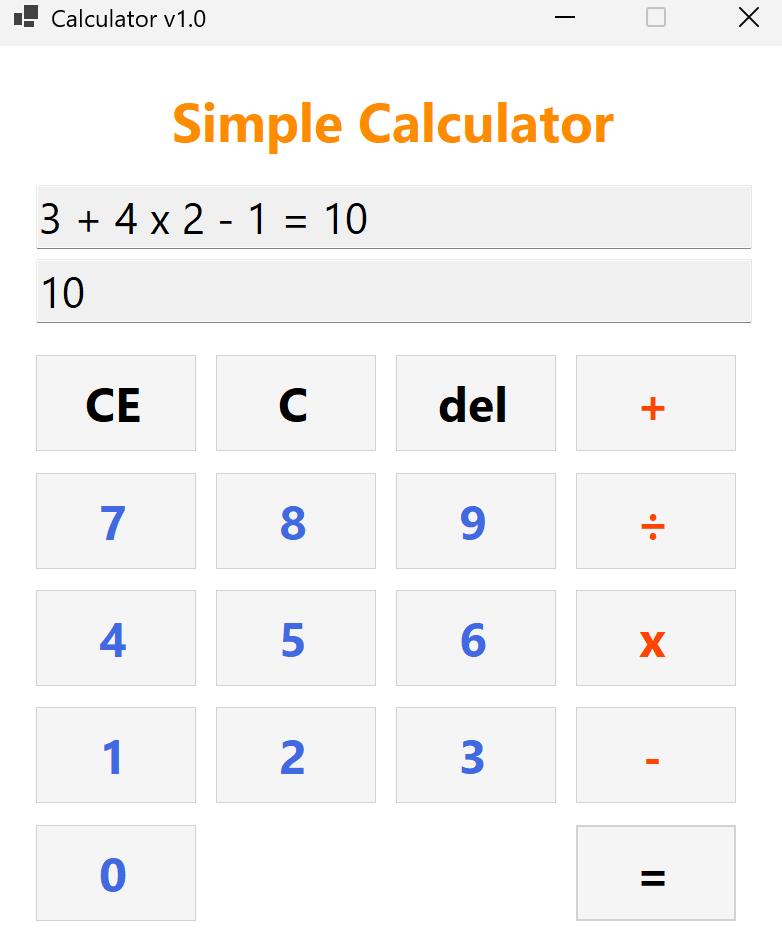
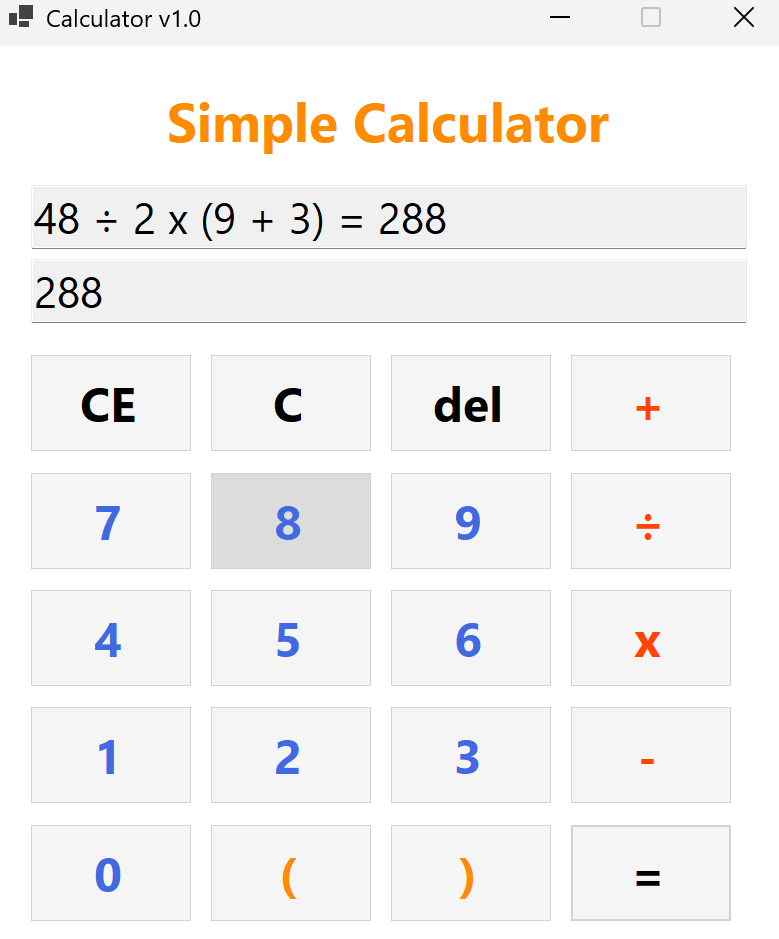
readme 및 스크린샷 수정

diff --git a/README.md b/README.md
@@ -12,8 +12,8 @@
     - int.TryParse()를 이용하여 문자열에서 정수로의 형 변환을 안전하게 처리한다.
     - ToString()을 이용하여 계산 결과값을 문자열로 변환하고 화면에 출력한다.
     - KeyPress 및 KeyDown 이벤트를 이용하여 키보드 숫자 키, 연산자 키, Enter, Backspace, Delete 키 입력을 처리한다.
-    - List<int>와 List<string>으로 피연산자와 연산자를 각각 저장하여 수식 전체를 관리한다.
-    - Evaluate() 메서드에서 곱하기·나누기를 먼저 처리한 뒤 더하기·빼기를 처리하는 2단계 연산자 우선순위 계산을 구현한다.
+    - List<string> tokens 하나로 숫자·연산자·괄호를 모두 저장하여 수식 전체를 관리한다.
+    - EvaluateTokens() 메서드에서 Shunting-yard 알고리즘으로 괄호와 연산자 우선순위를 모두 반영하여 계산한다.
     - 0으로 나누기 시 DivideByZeroException을 이용하여 예외처리를 수행하고 오류 메시지를 표시한다.
     - 선행 0 입력 방지 로직을 구현하여 "007"과 같은 비정상적인 숫자 입력을 차단한다.
     - isResult 플래그 변수를 이용하여 계산 결과 상태를 관리한다.
@@ -44,12 +44,12 @@
 - 과제 내용
     - 과제1의 더하기 기능에 더해 빼기(-), 곱하기(x), 나누기(÷) 버튼을 추가하여 사칙연산을 완성한다.
     - 각 연산자 버튼은 하나의 공통 이벤트 핸들러(BtnOperator_Click)에 연결한다.
-    - 클릭된 버튼의 텍스트를 currentOperator 변수에 저장하여 연산자 종류를 구분한다.
+    - 클릭된 버튼의 텍스트를 tokens 리스트에 추가하여 연산자 종류를 저장한다.
     - 나누기 연산의 경우 두 번째 피연산자가 0인지 반드시 검사하여 예외처리를 수행한다.
 - 구현 내용과 기능 설명
-    - 연산자 버튼 클릭 시 currentOperator에 연산자를 저장하고 firstNumber를 기록한다.
-    - 연산자 입력 직후 txtResult에는 firstNumber 값이 표시되어 사용자가 첫 번째 피연산자를 확인할 수 있다.
-    - 등호(=) 버튼 클릭 시 switch 문으로 currentOperator를 분기하여 해당 사칙연산을 수행한다.
+    - 연산자 버튼 클릭 시 현재까지 입력된 숫자를 tokens에 추가하고 연산자도 tokens에 저장한다.
+    - 연산자 입력 직후 txtResult에는 마지막으로 확정된 숫자가 표시되어 사용자가 첫 번째 피연산자를 확인할 수 있다.
+    - 등호(=) 버튼 클릭 시 EvaluateTokens()가 호출되어 사칙연산을 수행한다.
     - 결과값은 ToString()으로 변환되어 txtResult에 표시되며, txtExpression에는 "5 x 2 = 10" 형태의 전체 식이 표시된다.
     - 나누기 연산에서 두 번째 수가 0이면 오류 메시지를 출력하고 모든 상태를 초기화한다.
 
@@ -70,11 +70,11 @@
     - Del 버튼은 마지막으로 입력된 숫자 한 글자만 삭제한다.
     - 각 버튼은 키보드의 Delete, Backspace 키와도 연결되어 키보드만으로도 조작이 가능하다.
 - 구현 내용과 기능 설명
-    - C 버튼 클릭 시 txtExpression과 txtResult를 비우고, firstNumber, currentOperator, isNewInput, isResult 등 모든 상태 변수를 초기값으로 리셋한다.
-    - CE 버튼 클릭 시 연산자가 입력되지 않은 상태이면 전체 식을 지운다.
-    - 연산자가 입력된 상태에서 CE를 누르면 두 번째 피연산자만 삭제하여 "firstNumber 연산자" 형태로 되돌리며, txtResult에도 firstNumber가 다시 표시된다.
-    - Del 버튼은 Substring()을 이용해 txtExpression의 마지막 글자 하나를 제거한다.
-    - Del 버튼 동작 후 UpdateCurrentNumberDisplay()를 호출하여 txtResult도 함께 갱신한다.
+    - C 버튼 클릭 시 txtExpression과 txtResult를 비우고, tokens, currentInput, parenDepth, isResult 등 모든 상태 변수를 초기값으로 리셋한다.
+    - CE 버튼 클릭 시 currentInput이 있으면 현재 입력 중인 숫자만 지우고, 없으면 마지막 토큰(숫자·연산자·괄호)을 제거한다.
+    - 연산자가 입력된 상태에서 CE를 누르면 마지막 토큰을 삭제하며, 괄호 토큰 제거 시 parenDepth도 함께 복원한다.
+    - Del 버튼은 Substring()을 이용해 currentInput의 마지막 글자 하나를 제거하고, currentInput이 비어 있으면 마지막 토큰을 제거한다.
+    - Del·CE 동작 후 UpdateDisplay()를 호출하여 txtExpression과 txtResult를 함께 갱신한다.
 
 
 ## 실행 화면 (과제4)
@@ -86,7 +86,7 @@
     - 키보드 숫자 및 연산자 키 입력을 지원하며, ( 키와 ) 키도 괄호 버튼과 연결한다.
     - 0으로 나누기 예외처리를 구현한다.
     - 수학적 연산자 우선순위(×, ÷ 먼저, +, - 나중)를 적용하여 복합 수식을 한 번에 계산할 수 있도록 구현한다.
-    - 괄호 버튼(, )을 추가하여 "(3 + 4) x 2 = 14"와 같이 괄호가 포함된 수식을 처리할 수 있도록 구현한다.
+    - 괄호 버튼 `(` `)` 을 추가하여 "(3 + 4) x 2 = 14"와 같이 괄호가 포함된 수식을 처리할 수 있도록 구현한다.
     - TextBox 커서 자동 스크롤 및 선행 0 입력 방지 기능을 추가한다.
     - 결과 표시 후 숫자를 누르면 이전 계산을 초기화하고 새 계산을 자동으로 시작한다.
 - 구현 내용과 기능 설명
